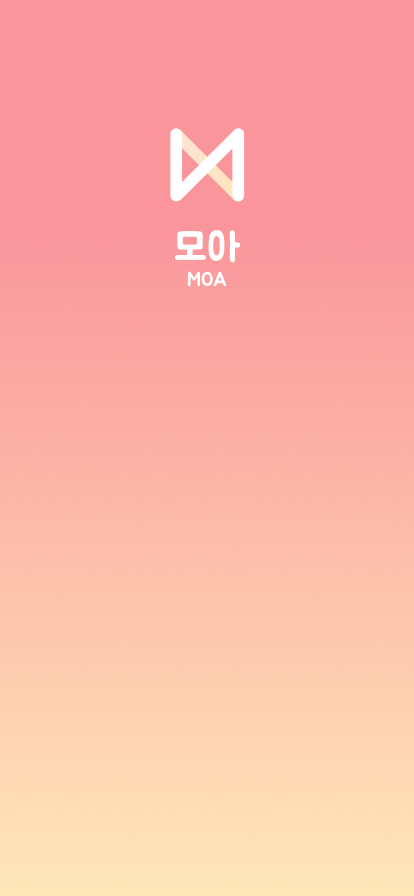
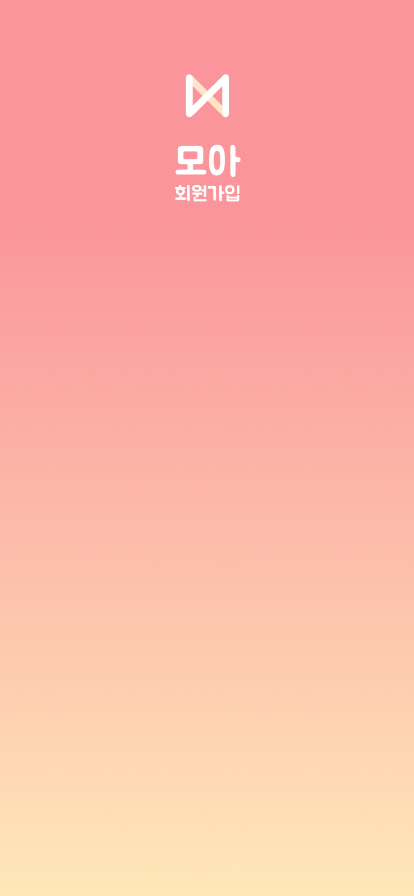
회원가입 id추가

Changed region(s): [[0.4058, 0.0625, 0.6087, 0.3438]]

diff --git a/client/src/routes/signup.js b/client/src/routes/signup.js
@@ -10,6 +10,7 @@ class signup extends React.Component {
       super(props);
       this.state = {
         name: "",
+        id:"",
         mail: "",
         pwd: "",
         checkPwd: ""
@@ -25,7 +26,7 @@ class signup extends React.Component {
     }
 
     confirm = () => {
-        console.log(this.state);
+        console.log(this.state.id);
     }
 
     confirmInfo = () => {
@@ -58,7 +59,7 @@ class signup extends React.Component {
         var formData = new FormData();
         formData.append('nickname', this.state.name);
         formData.append('email', this.state.mail);
-        formData.append('userID', "user1234");
+        formData.append('userID', this.state.id);
         formData.append('userPw', this.state.pwd);
 
         await instance.post("/api/user/signUp", formData)
@@ -80,14 +81,20 @@ class signup extends React.Component {
                             <h4>닉네임</h4>
                         </div>
                         <Input className="signupBoxContainer" id="name" value={this.state.name} onChange={(e)=>{this.setState({name:e.target.value})}} placeholder="닉네임을 입력하세요" /> 
-                        <div style={{marginTop:'30px'}}>
+                        <div style={{marginTop:'40px'}}>
+                            <div className="signupText">
+                                <h4>아이디</h4>
+                            </div>
+                                <Input className="signupBoxContainer" value={this.state.id} onChange={(e)=>{this.setState({id:e.target.value})}} id="id" placeholder="아이디를 입력하세요" />                               
+                        
+                        <div style={{marginTop:'40px'}}>
                             <div className="signupText">
                                 <h4>이메일</h4>
                             </div>
-                                <Input className="signupBoxContainer" value={this.state.frontMail} onChange={(e)=>{this.setState({mail:e.target.value})}} id="mail" placeholder="이메일을 입력하세요" />                               
+                                <Input className="signupBoxContainer" value={this.state.mail} onChange={(e)=>{this.setState({mail:e.target.value})}} id="mail" placeholder="이메일을 입력하세요" />                               
                         </div>
                         <div>
-                        <div style={{marginTop:'30px'}}>
+                        <div style={{marginTop:'40px'}}>
                             <div className="signupText">
                                 <h4>비밀번호</h4>
                             </div>
@@ -95,7 +102,7 @@ class signup extends React.Component {
                         </div>
                         </div>
                         <div>
-                        <div style={{marginTop:'10px'}}>
+                        <div style={{marginTop:'20px'}}>
                             <div className="signupText">
                                 <h4>비밀번호 확인</h4>
                             </div>
@@ -104,10 +111,11 @@ class signup extends React.Component {
                         </div>
                     </div>
                     </div>
-                        <div onClick={this.postSignUp} className="btn btn-lg btn-white" style={{marginBottom:'60px'}}>
+                        <div onClick={this.postSignUp} className="btn btn-lg btn-white" style={{marginBottom:'50px'}}>
                             회원가입
                         </div>
                 </div>
+            </div>
             </div>
         );
     }  

diff --git a/client/src/routes/settting.js b/client/src/routes/settting.js
@@ -45,7 +45,7 @@ class setting extends React.Component {
                   <h2 className="settingText">이용약관</h2>   
                   <input type="button" class="img-button"></input>           
             </div>
-            <div className="profile" style={{marginTop:"25px"}}>
+            <div className="profile" style={{marginTop:"40px"}}>
                   <h1 style={{fontSize:"15px", fontWeight:"500"}}>1조 소글소글</h1>      
                   <hr width="320px" style={{marginTop:"-5px", borderTop:"solid 1px gray"}}></hr>
                   <h2 className="settingText" style={{fontSize:"13px"}}>팀원: 강효근, 이수민, 이은경, 장환곤</h2> 

diff --git a/client/src/App.css b/client/src/App.css
@@ -503,9 +503,9 @@ textarea.ant-input {
 
 .signupContent {
   flex:1;
-  width: 70vw;
+  width: 80vw;
   padding : 10px;
-  margin-top: 320px;
+  margin-top: 220px;
 }
 
 .signupText h4 {
@@ -517,7 +517,7 @@ textarea.ant-input {
 .signupBoxContainer {
   border-radius: 10px;
   border: none;
-  height: 50px;
+  height: 40px;
 }
 
 input::placeholder {
